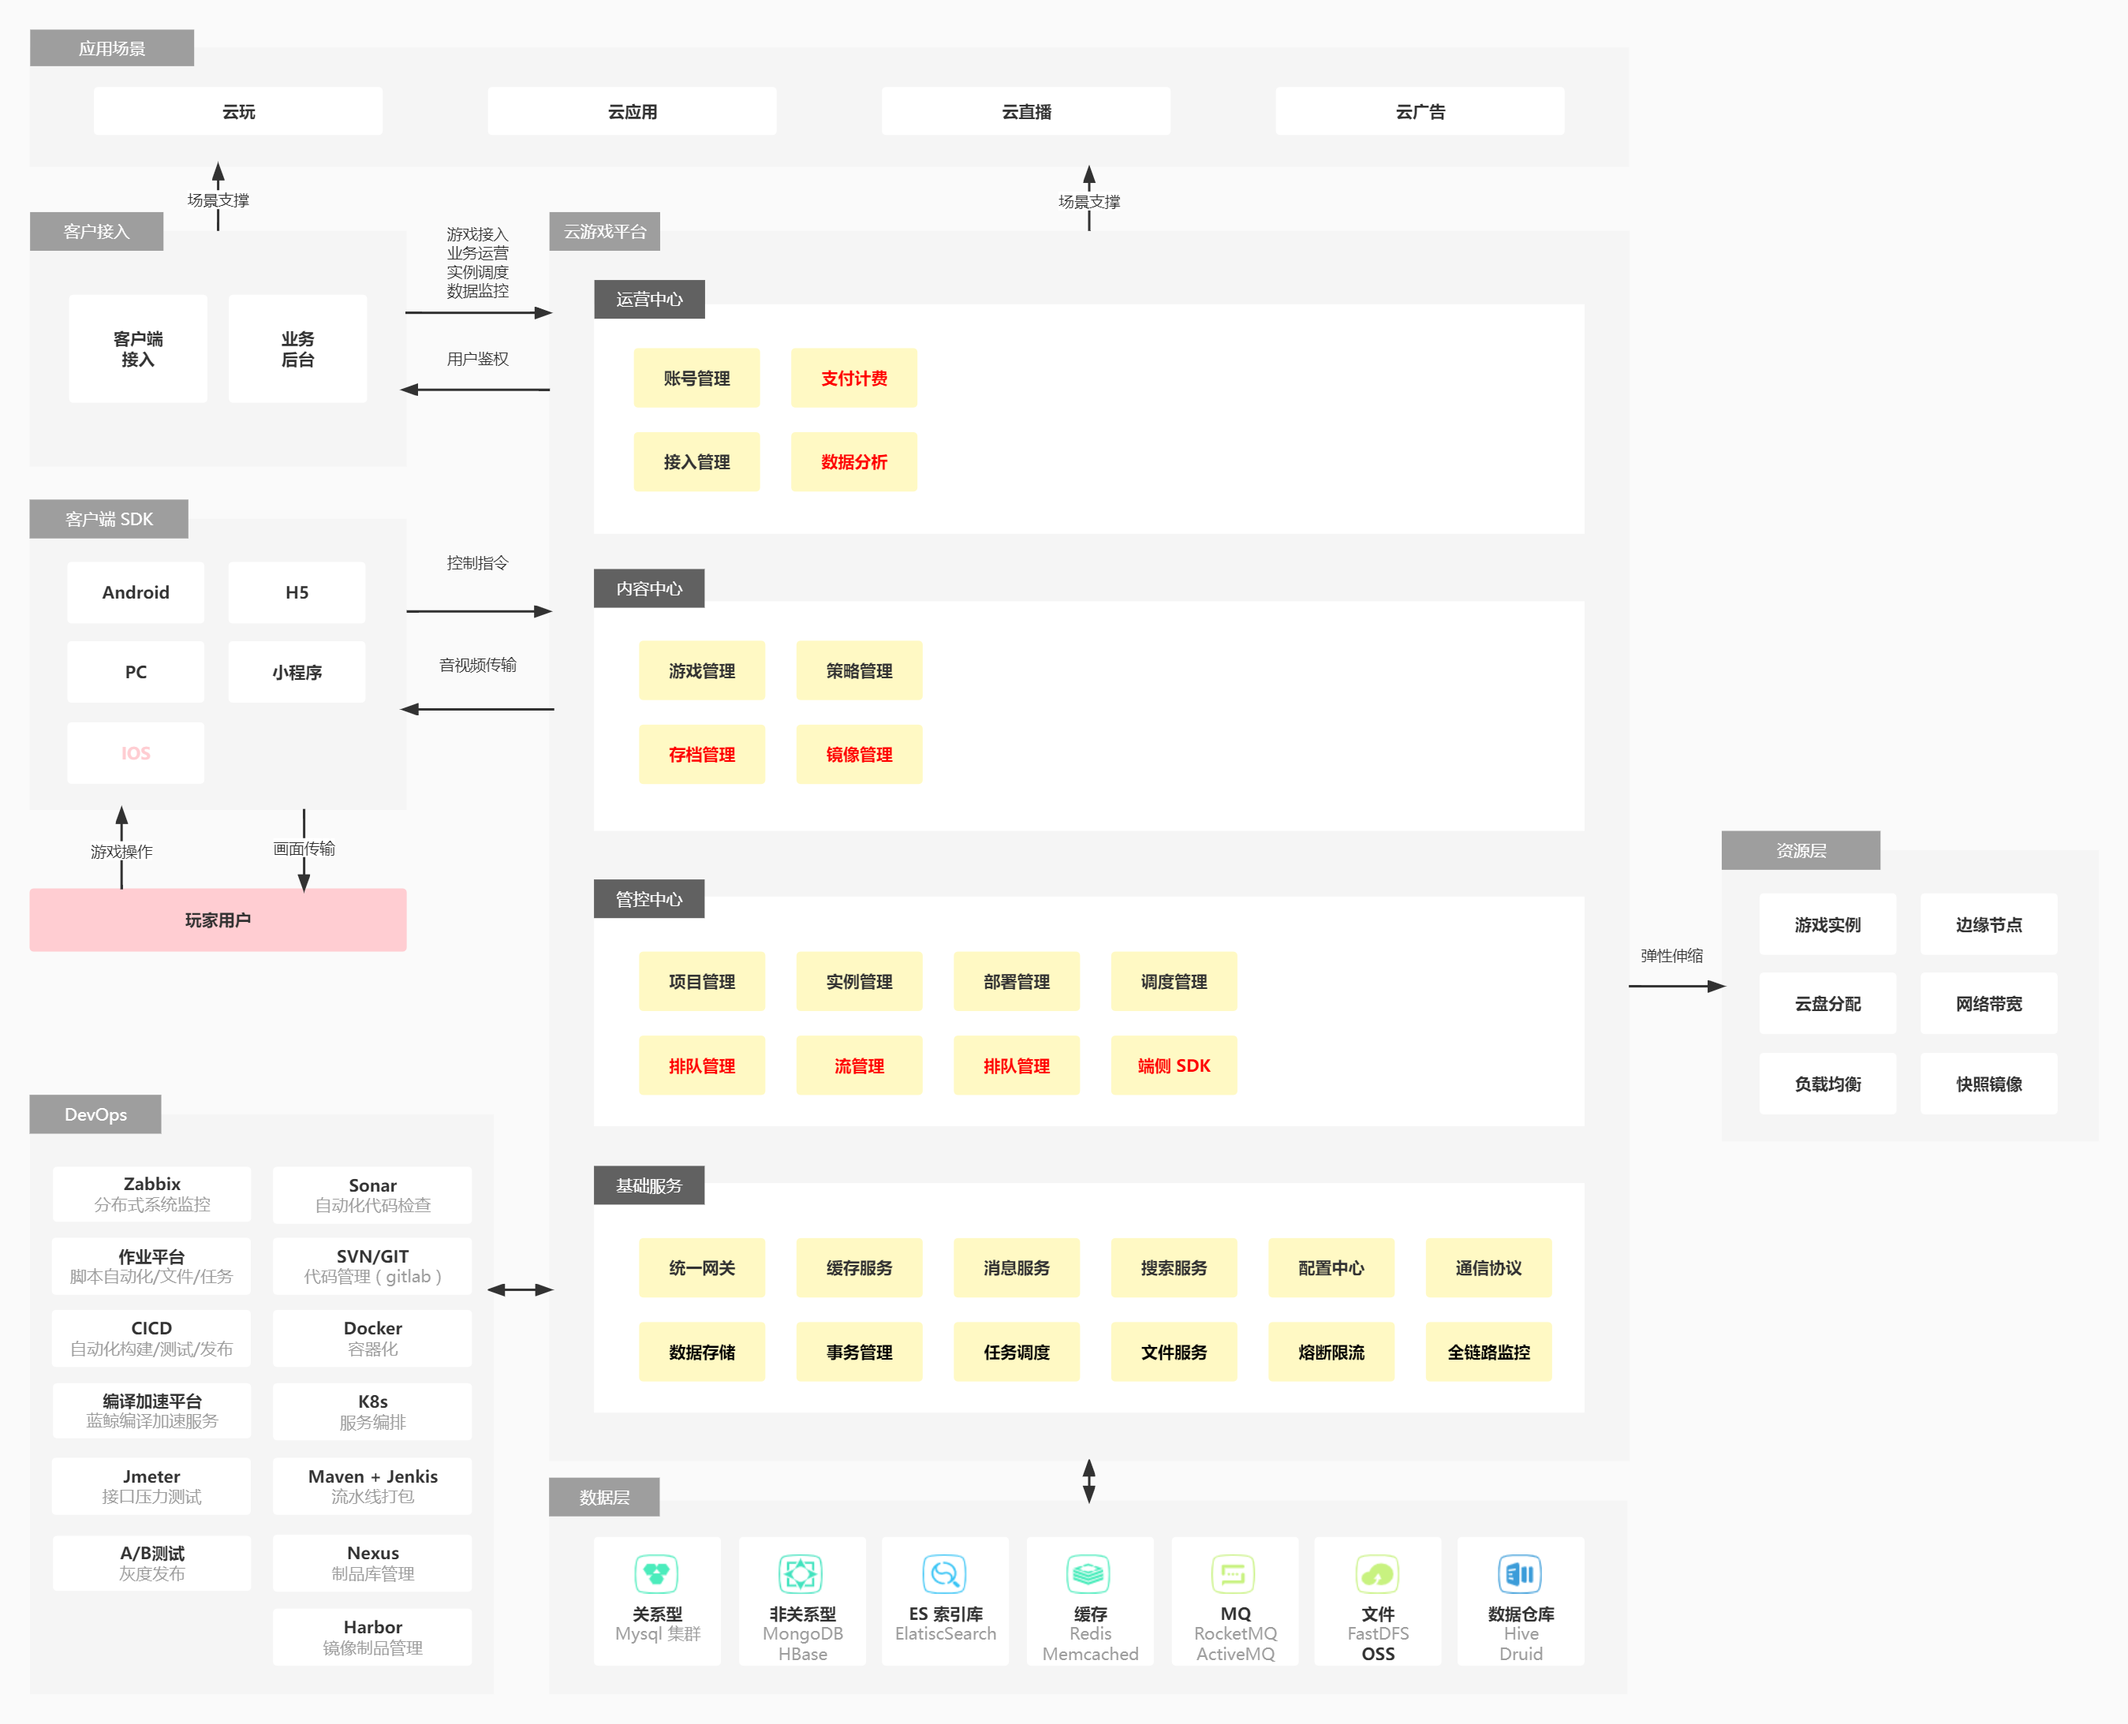
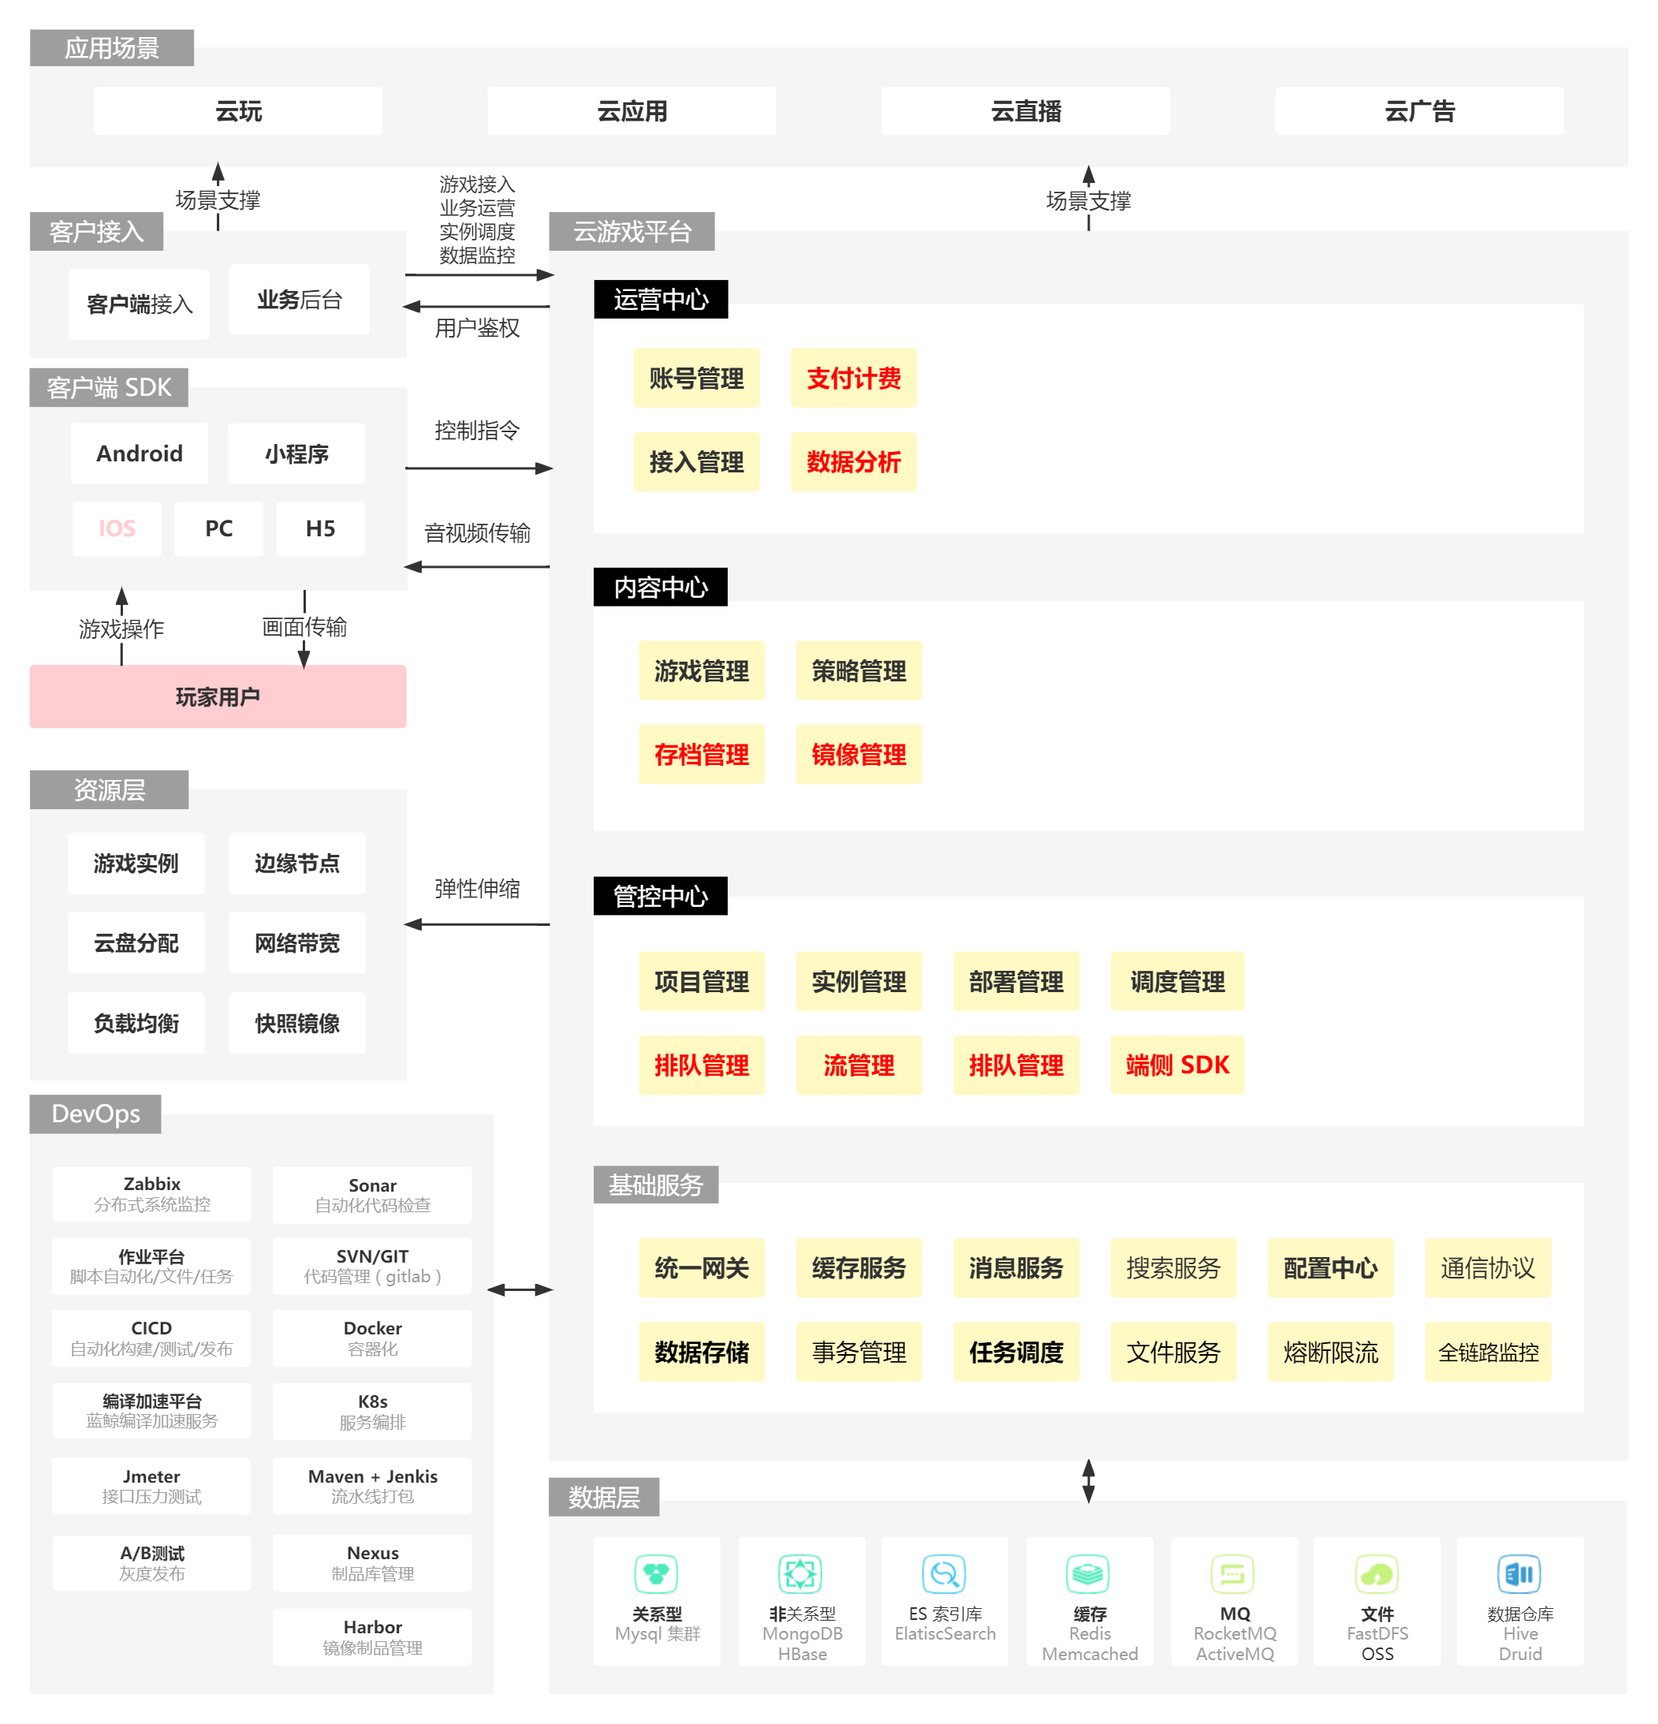
:memo: update format.

diff --git a/zh-cn/02-problem-background.md b/zh-cn/02-problem-background.md
@@ -64,17 +64,12 @@
 
 ## 应用场景
 
-![](../_media/image/02-problem-background/scen-001.png)
-
 ### 游戏内容商，游戏渠道
 
 - 便捷试玩，提高推广效率
 - 跨端体验，覆盖更多场景
 - 即点即玩，免除游戏下载
 - 免除外挂干扰，创造公平竞技环境
-
-
-![](../_media/image/02-problem-background/scen-002.png)
 
 ### 运营商
 
@@ -86,16 +81,8 @@
 
 
 
-## 解决方案技术架构及优势
 
-![](../_media/image/02-system-architecture-diagram/cloudgaming-architecture-001.svg)
-
-
-详见 [ProcessOn - 云游戏平台系统架构](https://www.processon.com/view/link/62de672e1efad42d76a068a1)
-
-!> 图片预览效果不佳，具体请打开以上详细链接
-
-### 解决方案优势
+## 解决方案优势
 
 - 之于用户
     - 低延迟高画质

diff --git a/zh-cn/02-system-architecture-diagram.md b/zh-cn/02-system-architecture-diagram.md
@@ -4,10 +4,10 @@
 >
 > 更新: 2022-07-25
 
-## 系统架构
+## 云游戏平台系统架构概览
 
 
-![](../_media/image/02-system-architecture-diagram/cloudgaming-architecture-001.svg)
+![](../_media/image/02-system-architecture-diagram/cloudgaming-architecture-001.jpg)
 
 
 详见 [ProcessOn - 云游戏平台系统架构](https://www.processon.com/view/link/62de672e1efad42d76a068a1)
